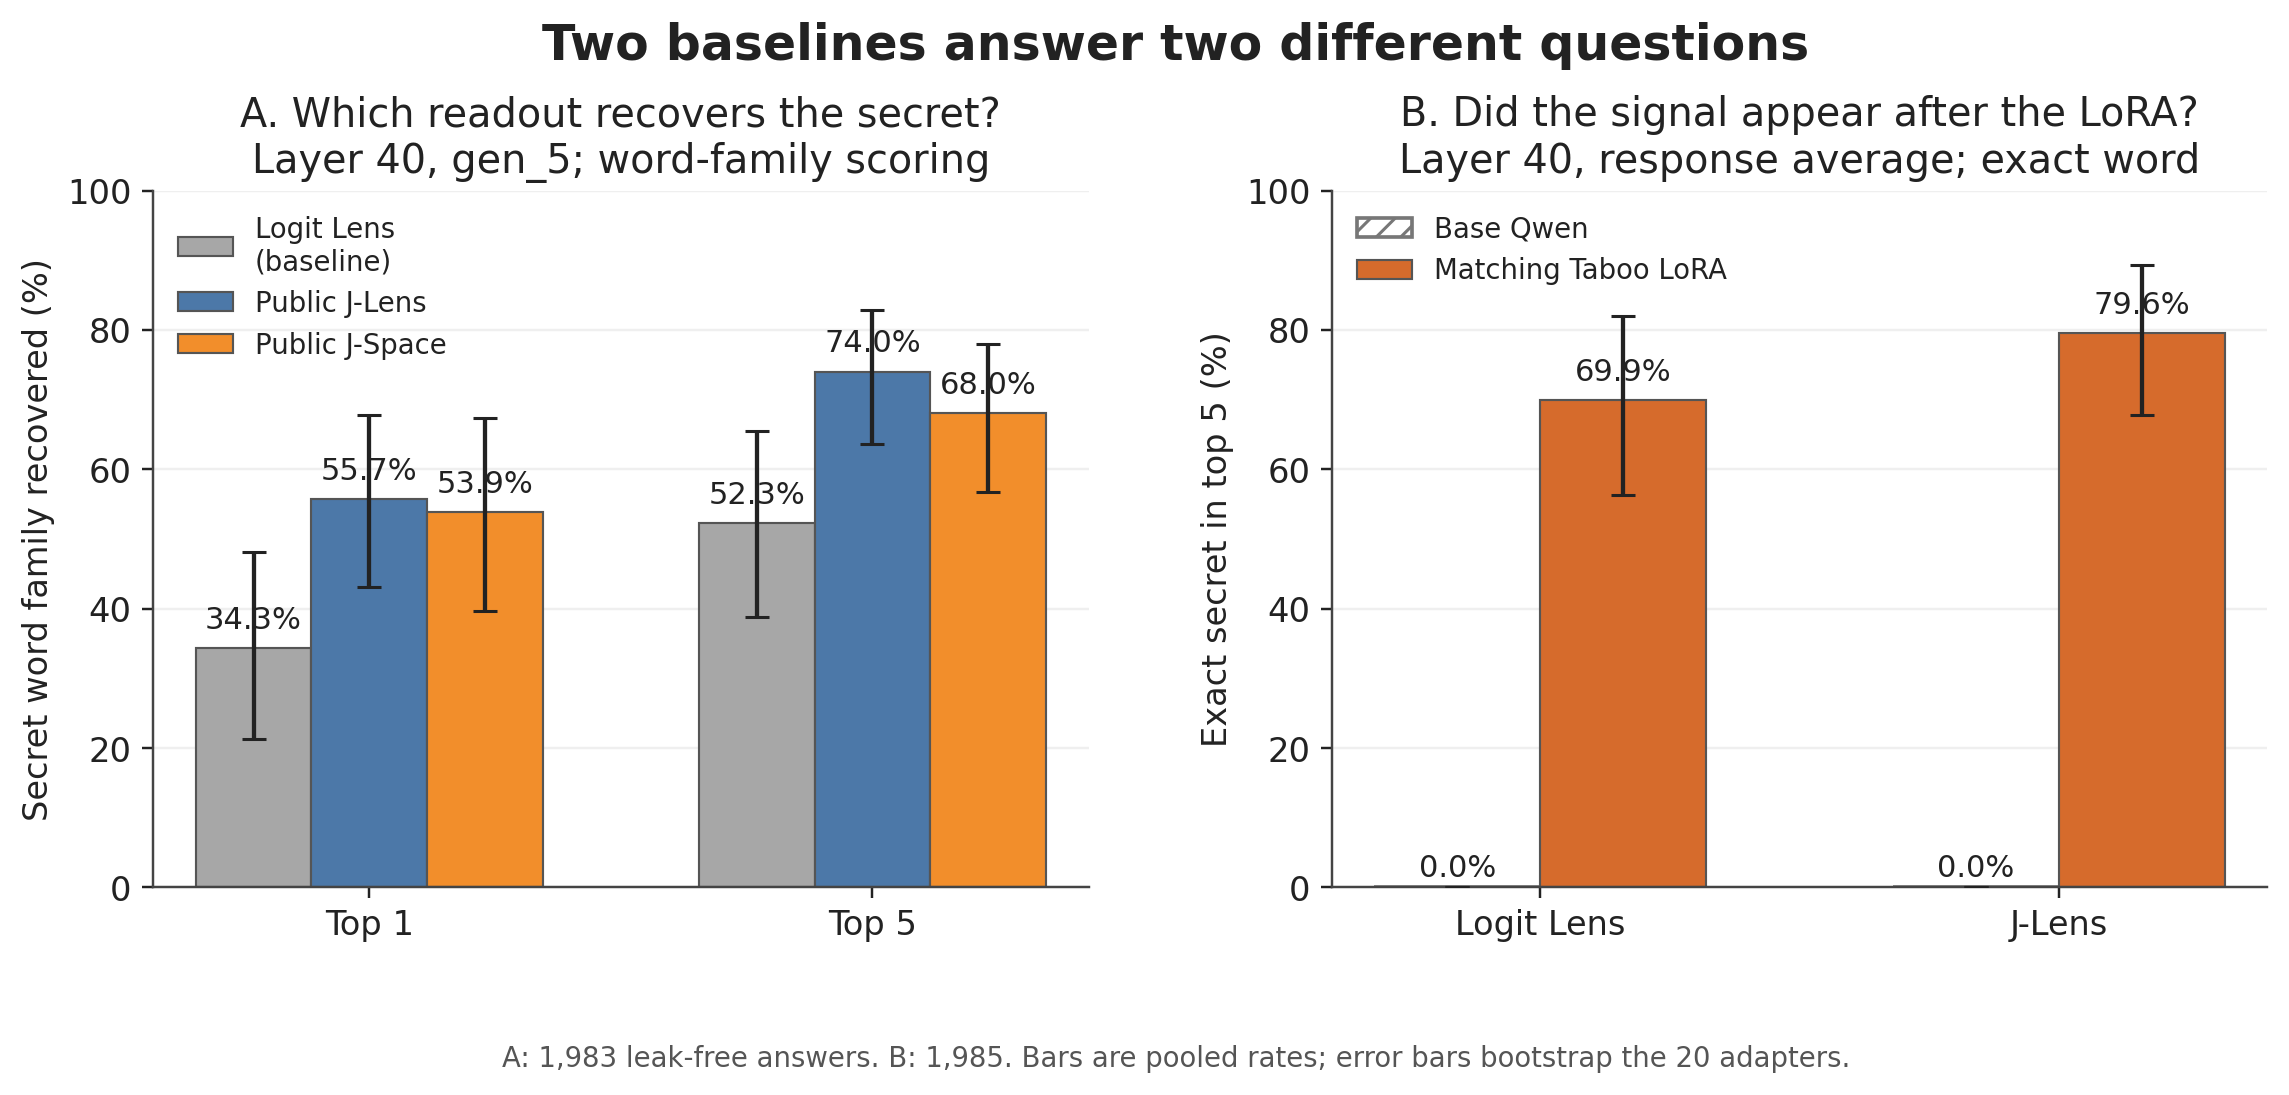
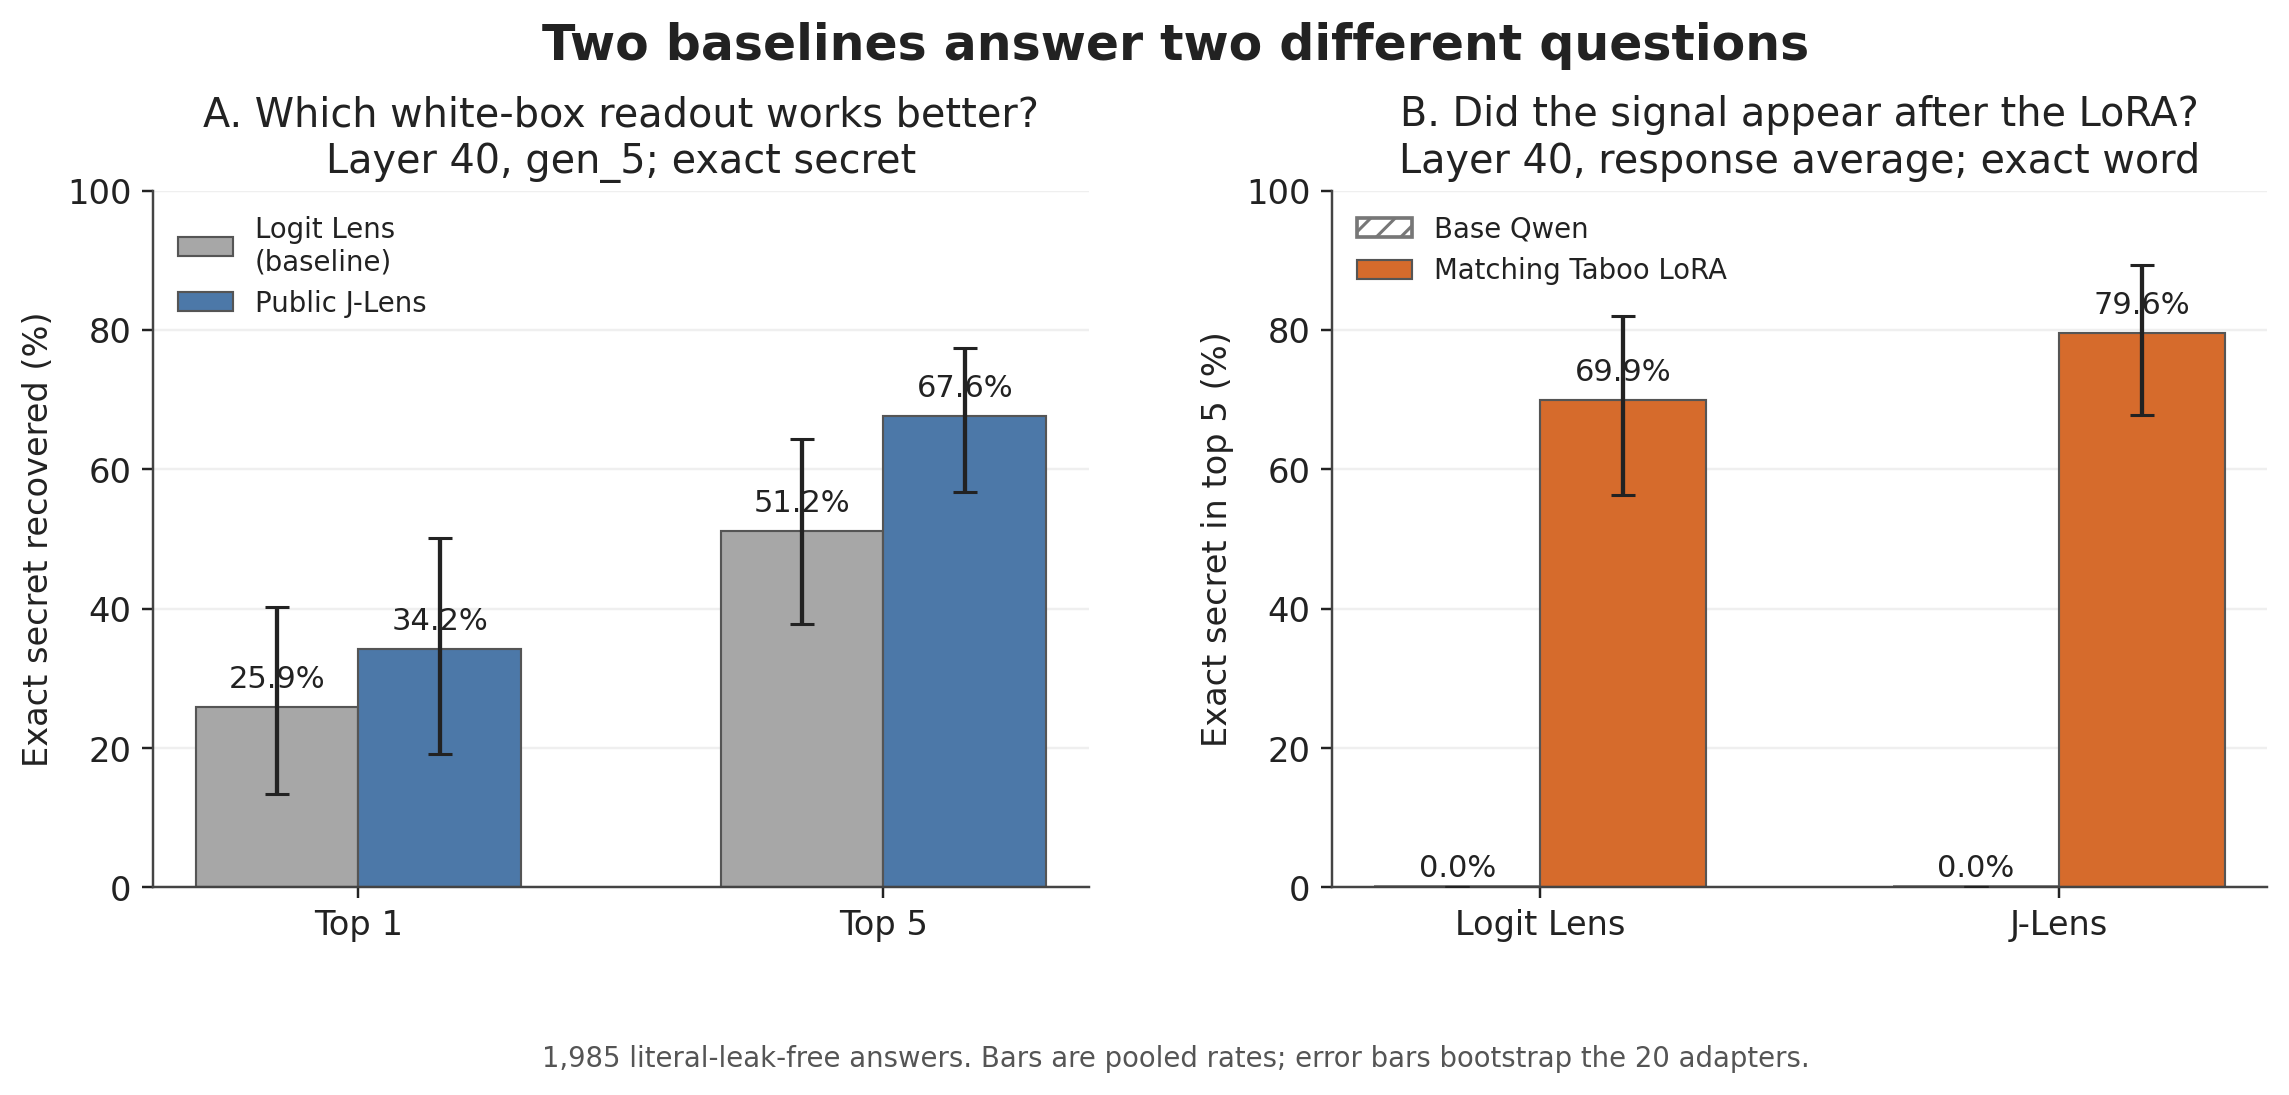
Refocus writeup on the main white-box comparison

diff --git a/writeup/build_writeup_figures.py b/writeup/build_writeup_figures.py
@@ -1,8 +1,8 @@
 """Build the four figures used in ``writeup/REPORT.md``.
 
-The figures use saved TEST artifacts only. The main bars use the final
-morphology-aware all-adapter analysis. The layer, position, base-model, and
-20-way specificity checks use the curated notebook-08 snapshot.
+The figures use saved TEST artifacts only. The main J-Lens versus Logit Lens,
+layer, position, base-model, and 20-way specificity checks use the curated
+notebook-08 snapshot.
 """
 
 from __future__ import annotations
@@ -17,27 +17,13 @@ import pandas as pd
 
 
 ROOT = Path(__file__).resolve().parent
-PROJECT_ROOT = ROOT.parent
 NB08 = ROOT / "source_data" / "notebook08"
-ALL_ADAPTER = (
-    PROJECT_ROOT
-    / "reports"
-    / "all_adapter_jspace_gen5"
-    / "run_20260904T162622Z_qwen36_all_adapter_public_jspace_l40_gen5_full"
-)
 FIGURES = ROOT / "figures"
 
 LOGIT = "#A7A7A7"
 JLENS = "#4C78A8"
-JSPACE = "#F28E2B"
 LORA = "#D66B2C"
 TEXT = "#222222"
-
-METHOD_LABELS = {
-    "logit_lens": "Logit Lens\n(baseline)",
-    "public_base_jlens_n1000": "Public J-Lens",
-    "public_base_jspace_gp_k16": "Public J-Space",
-}
 
 
 def set_style() -> None:
@@ -110,10 +96,9 @@ def label_bar(ax: plt.Axes, x: float, value: float, *, offset: float = 2.0) -> N
 
 
 def build_overview_bars() -> None:
-    morph = pd.read_csv(ALL_ADAPTER / "per_adapter_metrics_morphology.csv")
-    expected_methods = list(METHOD_LABELS)
-    assert set(morph["method"]) == set(expected_methods)
-    assert morph["condition"].nunique() == 20
+    frozen = pd.read_csv(NB08 / "test_frozen_metrics_by_adapter.csv")
+    frozen = frozen.loc[frozen["prompt_type"] == "standard"].copy()
+    assert frozen["condition"].nunique() == 20
 
     paired = pd.read_parquet(NB08 / "test_adapter_vs_base_paired_at_anchors.parquet")
     paired = paired.loc[
@@ -125,19 +110,22 @@ def build_overview_bars() -> None:
 
     fig, axes = plt.subplots(1, 2, figsize=(12.4, 4.8), gridspec_kw={"wspace": 0.26})
 
-    # Panel A: method comparison at the frozen layer/position.
+    # Panel A: primary method comparison at the frozen layer/position.
     ax = axes[0]
-    metrics = [("family_hit_at_1", "Top 1"), ("family_hit_at_5", "Top 5")]
-    colors = [LOGIT, JLENS, JSPACE]
-    width = 0.23
+    metrics = [("hit_at_1", "Top 1"), ("hit_at_5", "Top 5")]
+    method_specs = [
+        ("logit_lens", "Logit Lens\n(baseline)", LOGIT),
+        ("jlens", "Public J-Lens", JLENS),
+    ]
+    width = 0.31
     centers = np.arange(len(metrics), dtype=float)
-    offsets = np.array([-width, 0.0, width])
-    for method_index, (method, color) in enumerate(zip(expected_methods, colors)):
-        subset = morph.loc[morph["method"] == method].sort_values("condition")
+    offsets = np.array([-width / 2, width / 2])
+    for method_index, (method, label, color) in enumerate(method_specs):
+        subset = frozen.loc[frozen["method"] == method].sort_values("condition")
         for metric_index, (metric, _) in enumerate(metrics):
             estimate, low, high = weighted_mean_and_ci(
                 subset[metric].to_numpy(),
-                subset["n"].to_numpy(),
+                subset["prompts"].to_numpy(),
                 seed=101 + 10 * method_index + metric_index,
             )
             x = centers[metric_index] + offsets[method_index]
@@ -148,13 +136,13 @@ def build_overview_bars() -> None:
                 color=color,
                 edgecolor="#555555",
                 linewidth=0.7,
-                label=METHOD_LABELS[method] if metric_index == 0 else None,
+                label=label if metric_index == 0 else None,
                 zorder=2,
             )
             draw_errorbar(ax, x, estimate, low, high)
             label_bar(ax, x, estimate, offset=2.8)
-    ax.set_title("A. Which readout recovers the secret?\nLayer 40, gen_5; word-family scoring")
-    ax.set_ylabel("Secret word family recovered (%)")
+    ax.set_title("A. Which white-box readout works better?\nLayer 40, gen_5; exact secret")
+    ax.set_ylabel("Exact secret recovered (%)")
     ax.set_xticks(centers, [label for _, label in metrics])
     ax.set_ylim(0, 100)
     ax.grid(axis="y", alpha=0.2, zorder=0)
@@ -225,7 +213,7 @@ def build_overview_bars() -> None:
     fig.text(
         0.5,
         -0.01,
-        "A: 1,983 leak-free answers. B: 1,985. Bars are pooled rates; error bars bootstrap the 20 adapters.",
+        "1,985 literal-leak-free answers. Bars are pooled rates; error bars bootstrap the 20 adapters.",
         ha="center",
         fontsize=9,
         color="#555555",

diff --git a/writeup/REPORT.md b/writeup/REPORT.md
@@ -1,19 +1,25 @@
-# A Base-Model J-Lens Still Works After Taboo LoRA Fine-Tuning
+# J-Lens Improves White-Box Secret Readout After LoRA Fine-Tuning
 
 ## Short answer
 
-We tested a public J-Lens on 20 versions of Qwen3.6-27B. Each version had a
-small LoRA trained around one secret word, such as `moon`, `rock`, or `smile`.
-The model had to give hints about the word without saying it.
+This project studies **white-box** methods: methods that read the model's
+internal activations. We ask whether a public J-Lens fitted using base-Qwen
+activations still works after a narrow Taboo LoRA is attached, and whether it
+improves on Logit Lens.
 
-The main result is simple: the J-Lens was fitted from activations of base Qwen,
-but it still recovered the secret after the LoRA was attached. At our fixed
-layer and answer position, the secret word family was in its top 5 for **74.0%**
-of leak-free answers. Logit Lens reached **52.3%**. A sparse J-Space readout
-reached **68.0%**.
+We tested 20 LoRAs with 100 standard TEST prompts each. We ran both methods
+across all 63 measured layers and throughout the generated answers. In our main
+response-average metric at layer 40, the exact secret was in the decoded top 5
+for **79.6%** of leak-free answers with J-Lens and **69.9%** with Logit Lens.
+J-Lens was also higher at every layer from 30 through 59. At the separately
+fixed `gen_5` position, the exact-secret result was **67.6%** versus **51.2%**,
+and the median secret rank was 2 versus 5.
 
-So the base-model J-Lens transfers to this family of narrow LoRAs. It is useful,
-but it is not better for every secret, layer, or answer position.
+The main conclusion is that the base-model J-Lens transfers through these LoRAs
+and gives a stronger white-box readout than Logit Lens in the main informative
+part of the network. Smaller follow-ups with sparse J-Space and with a J-Lens
+fitted on the Rock-LoRA model did not improve on the public J-Lens in the tested
+conditions, but produced useful observations about morphology and lens fitting.
 
 ## Why this question matters
 
@@ -21,29 +27,41 @@ Interpretability tools are usually built for one exact model. Real models are
 fine-tuned many times. Training a new tool for every fine-tuned checkpoint can
 be expensive.
 
-This project asks whether one white-box tool can be reused after a small
-fine-tune. It is not a competition to find the best possible way to guess a
-Taboo word. Black-box prompting can work very well on this task. We use the
-simple Taboo setting because it gives us a known piece of target information
-and lets us test the readout carefully.
+[Earlier Taboo work](https://arxiv.org/abs/2505.14352) shows that black-box
+prompting can recover these secrets well. This project is not trying to beat the
+best black-box attack. We use Taboo as a controlled setting for comparing
+activation readouts. A reusable white-box tool could help inspect many related
+fine-tuned models without fitting a new readout for every checkpoint.
 
 ## Setup
 
 We used `Qwen/Qwen3.6-27B`, 20 public Taboo LoRAs, and 100 standard TEST prompts
-per LoRA. We compared three readouts:
+per LoRA. The main experiment compared two readouts:
 
 - **Logit Lens** reads an activation directly as token scores.
 - **J-Lens** first transforms the activation with a map fitted from base-Qwen
   activations.
-- **J-Space** describes the activation with 16 sparse J-Lens token directions.
 
 Layer 40 and generated-token index 5 were chosen on a separate validation set,
 before the full 20-LoRA TEST result was inspected.
 
-The model produced 2,000 TEST answers. We removed 17 answers that contained the
-secret or a simple plural form. This left 1,983 answers for the final comparison.
+The model produced 2,000 TEST answers. We removed 15 answers that contained the
+literal secret, leaving 1,985 for the main J-Lens versus Logit Lens analysis.
 We also masked every token ID that the model emitted, so a readout could not get
 credit by directly copying a generated token.
+
+## What does “the secret is in the top 5” mean?
+
+At each measured activation, a lens gives a score to every token in Qwen's
+vocabulary. We sort this full vocabulary by score. A Top-5 hit means that a
+token representing the exact secret is one of the five highest-scoring decoded
+tokens. These are **not** the five tokens generated in the answer.
+
+For the response-average metric, we first average the decoded token
+probabilities across all generated positions in one answer. We then rank the
+full vocabulary once for that answer. Therefore, 79.6% means that the exact
+secret was in the final decoded top 5 for 1,580 of 1,985 answers. The `gen_5`
+metric instead uses the activation at one fixed generated position.
 
 ## What is the baseline?
 
@@ -57,22 +75,24 @@ We have two good baselines, but they answer different questions.
 
 ![Method and model baselines.](figures/report_overview_bars.png)
 
-**Figure 1. Two baselines for two questions.** Panel A compares the three
-readouts at the fixed layer and answer position. A hit includes the singular or
-a simple plural form. Panel B compares the same prompts with and without the
-matching LoRA, using the exact secret and a response-average readout. Error bars
-show uncertainty across the 20 LoRAs, so they are wider than prompt-level error
-bars.
+**Figure 1. Two baselines for two questions.** Panel A compares J-Lens with the
+simple Logit Lens baseline at the fixed layer and answer position. Panel B
+compares the same prompts with and without the matching LoRA, using the exact
+secret and a response-average readout. Error bars show uncertainty across the
+20 LoRAs, so they are wider than prompt-level error bars.
 
-The important pattern is visible without reading every number. J-Lens and
-J-Space both beat the simple Logit Lens baseline. The same secrets are not
-recovered from base Qwen, so the strong signal appears with the matching LoRA.
+J-Lens is clearly stronger than Logit Lens at the fixed `gen_5` point. The same
+secrets are not recovered from base Qwen, so the strong signal appears with the
+matching LoRA.
 
 ## Where in the model is the secret readable?
 
 The result is not spread evenly across the network. Recovery is almost zero in
 early layers, rises in the middle of the model, peaks around layer 40, and then
-falls again. J-Lens is usually stronger in the later part of this window.
+falls again. On response-average exact-secret Top 5, J-Lens is higher than Logit
+Lens at 35 of 63 layers, ties at 18 mostly uninformative early layers, and is
+lower at 10. More importantly, it is higher at every layer from 30 through 59.
+The advantage is therefore not limited to one selected layer.
 
 ![Secret Hit@5 across layers.](figures/report_layer_curve_hit5.png)
 
@@ -107,16 +127,20 @@ is 5%.
 This is strong evidence that the activation signal is specific to the loaded
 LoRA. It is not only a general censorship or prompt-format signal.
 
-## What we learned from J-Space
+## Smaller follow-up: sparse J-Space
 
-The first Rock-only J-Space result looked bad: exact-token scoring found `rock`
-in only 2 of 99 sparse supports. Raw inspection showed a simple problem. The
-largest component was `rocks` in 87 of 99 answers.
+J-Space describes an activation with 16 sparse J-Lens token directions. This
+follow-up was measured only at layer 40 and `gen_5`.
 
-We therefore defined a small word family for every secret, for example `rock`
-and `rocks`, and reran the same rule across all 20 LoRAs. Under this rule,
-J-Space reaches 68.0% Top 5. This is much better than Logit Lens, but lower than
-the ordinary J-Lens result of 74.0%.
+The first Rock-only result looked bad: exact-token scoring found `rock` in only
+2 of 99 sparse supports. Raw inspection showed a simple problem. The largest
+component was `rocks` in 87 of 99 answers.
+
+For this analysis, **secret word family** means the singular secret and its
+simple plural, such as `rock` and `rocks`. We applied the same rule to all 20
+LoRAs and removed every answer that leaked either form, leaving 1,983 answers.
+Under this rule, J-Space reaches 68.0% Top 5. This is better than Logit Lens at
+52.3%, but lower than ordinary J-Lens at 74.0%.
 
 J-Space is also heterogeneous. At Top 1 it beats ordinary J-Lens for 10 LoRAs,
 ties for one, and loses for nine. It helps most for `chair`, `smile`, and `song`,
@@ -127,7 +151,7 @@ explanation of the model state.
 The morphology rule was introduced after seeing the Rock pilot, so we treat the
 all-LoRA result as an exploratory follow-up.
 
-## What happened when we fitted a new lens after LoRA?
+## Smaller follow-up: fitting J-Lens on the LoRA model
 
 We fitted one new J-Lens while the Rock LoRA was active. It used 100 neutral
 WikiText sequences with Taboo words removed. On 99 leak-free Rock answers, the
@@ -178,10 +202,15 @@ repeat the study on Taboo models trained to resist prompt attacks.
 ## Conclusion
 
 A public J-Lens fitted from base-Qwen activations remains informative after 20
-narrow Taboo LoRAs. It recovers the target more often than Logit Lens at the
-fixed readout point, and the signal is specific to the loaded LoRA. J-Space also
-recovers a strong signal, but it is not a general improvement over ordinary
-J-Lens.
+narrow Taboo LoRAs. Across the full layer sweep, it is consistently stronger
+than Logit Lens in the main informative region. It also recovers the exact
+secret more often at both the response-average layer-40 readout and the fixed
+layer-40, `gen_5` readout. The decoded signal is specific to the loaded LoRA.
+
+The smaller J-Space and Rock-specific fitting experiments did not improve on
+the public J-Lens overall. They instead showed that sparse results are sensitive
+to morphology and that fitting a lens after LoRA does not automatically make it
+better for that LoRA.
 
 The safest claim is:
 
